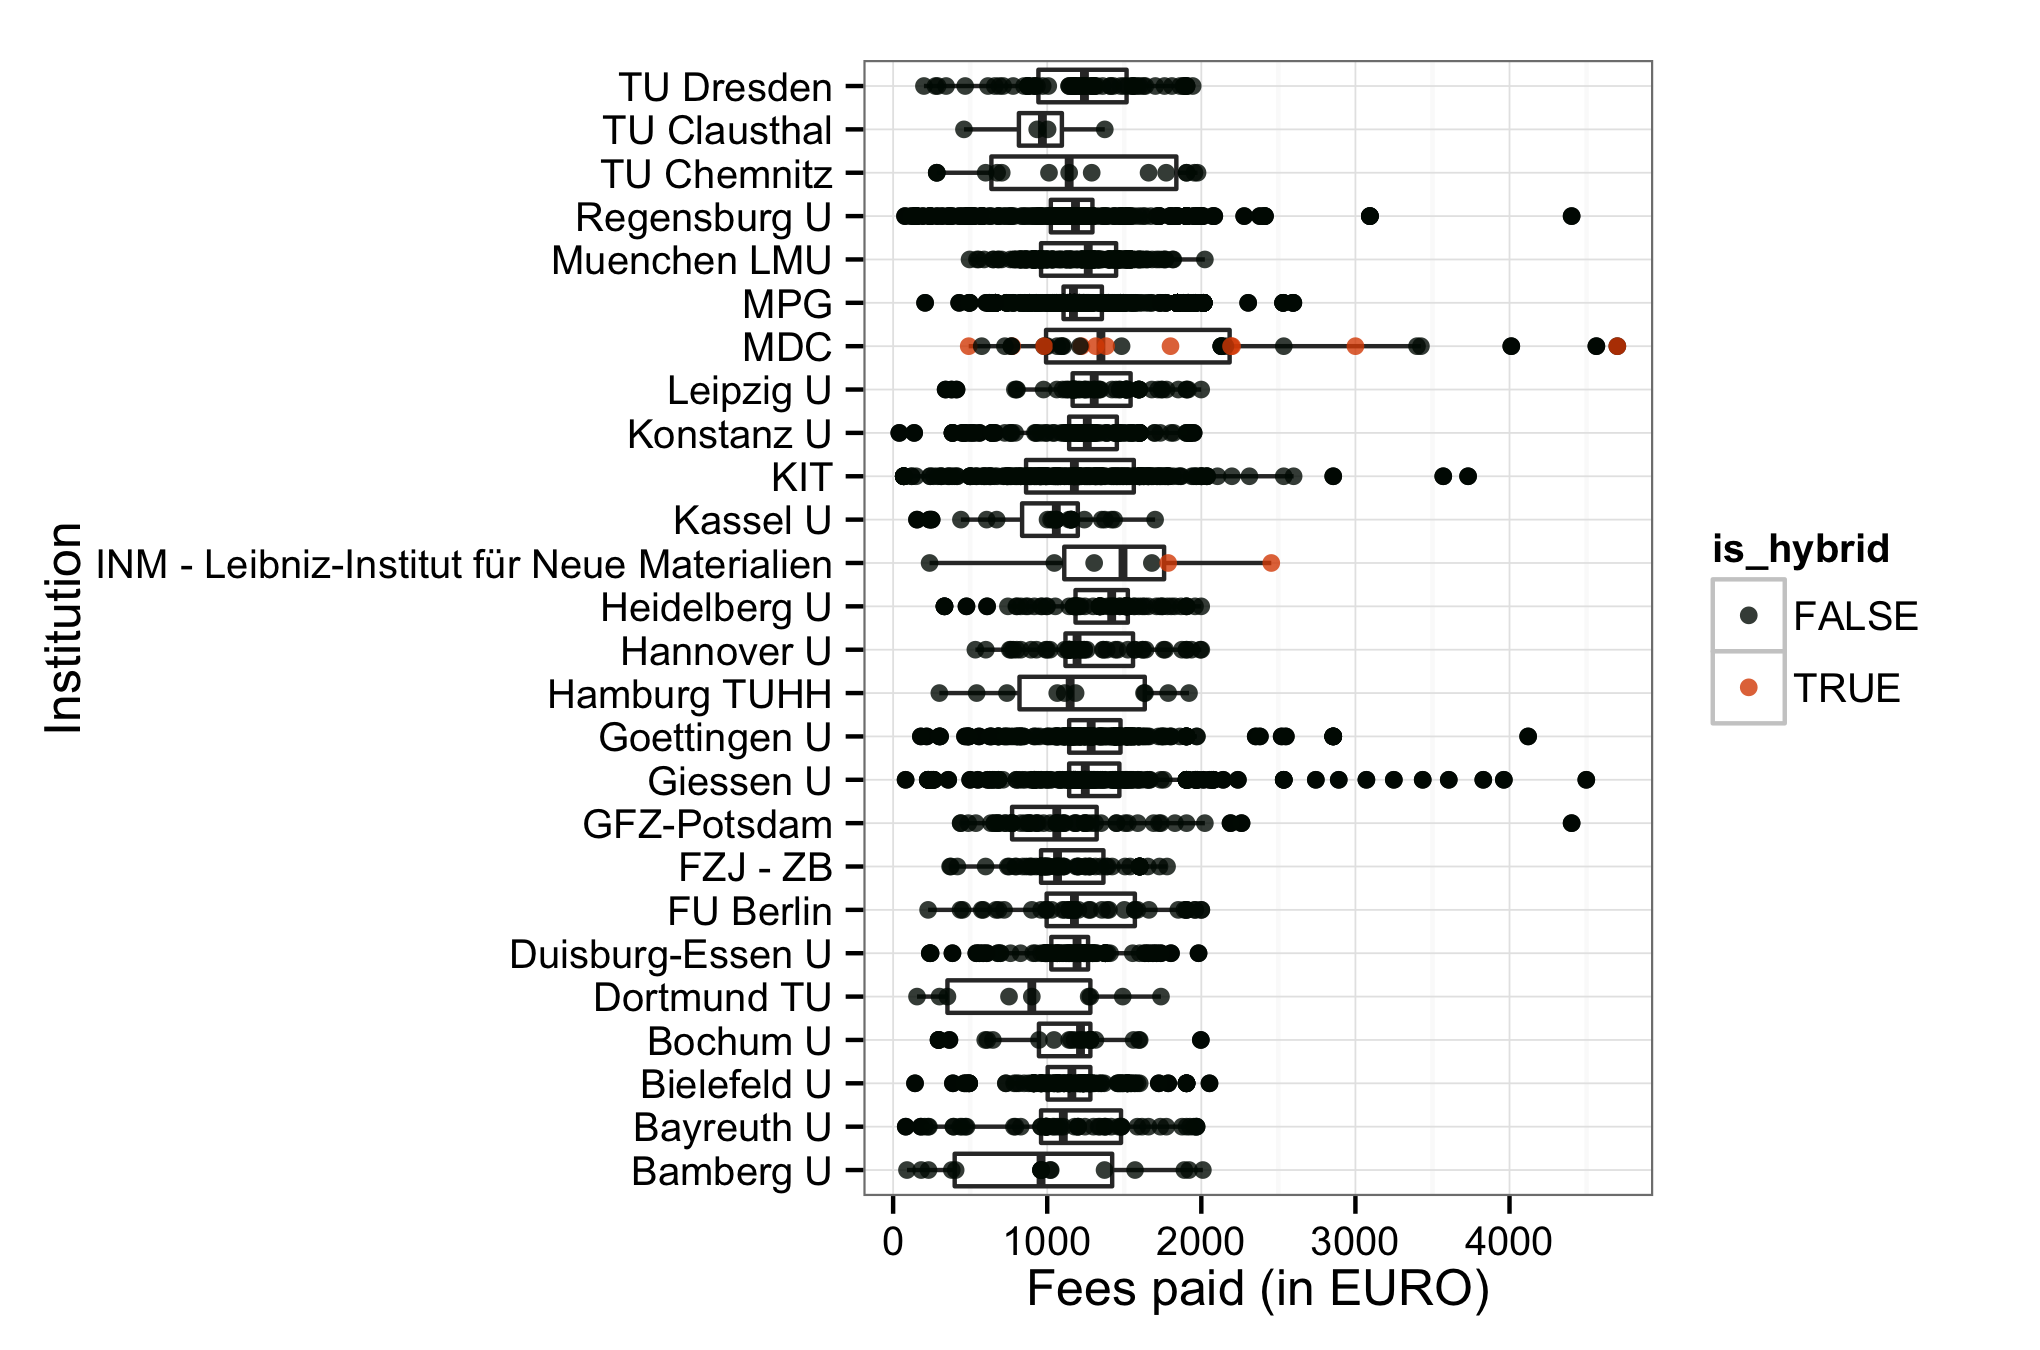
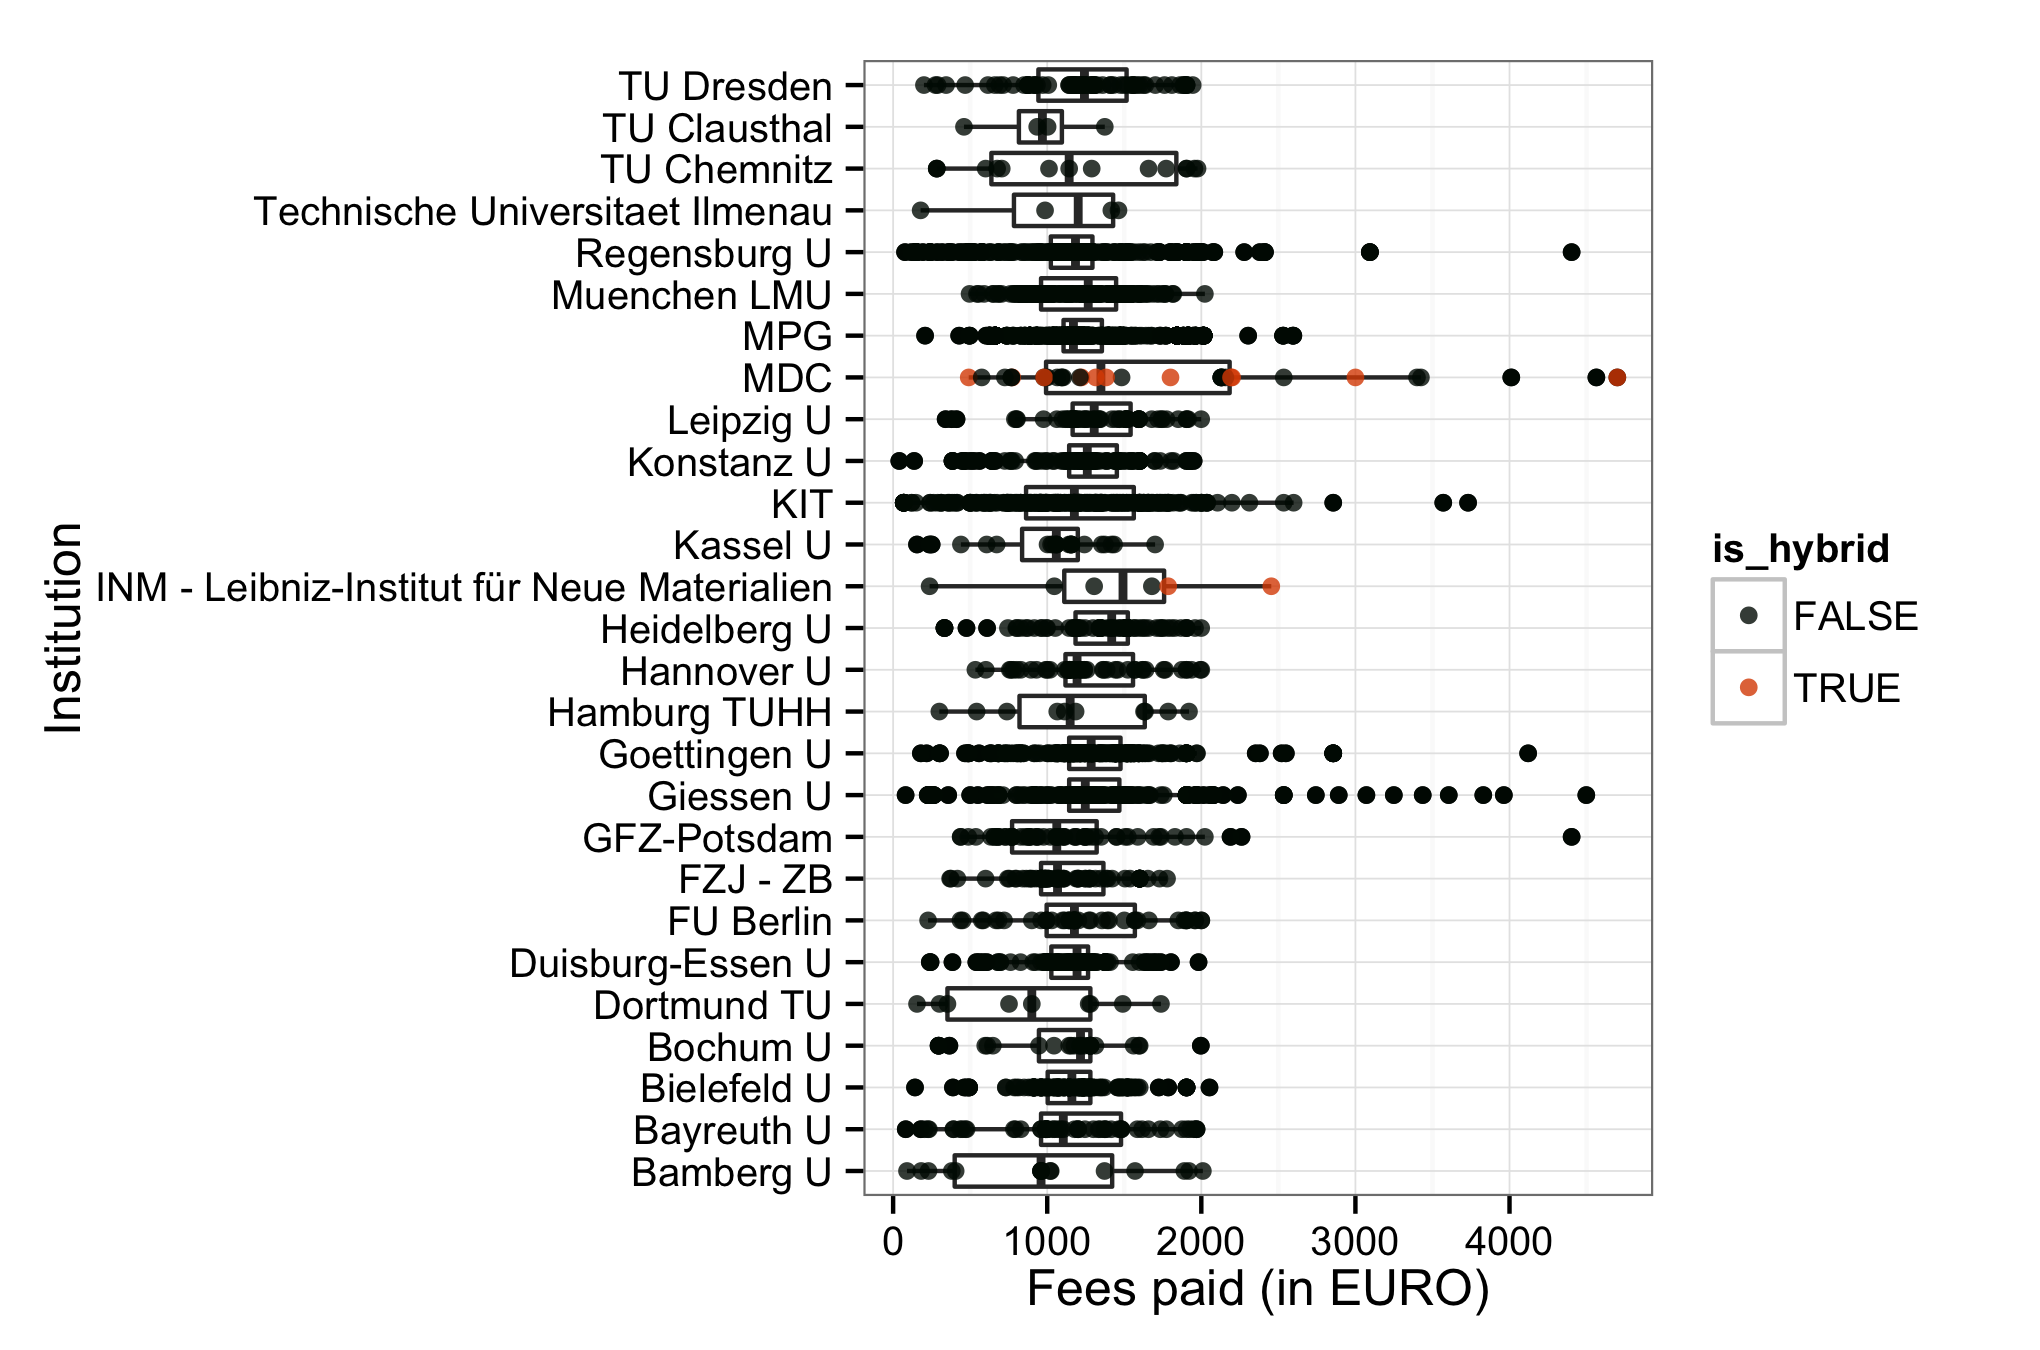
add tu ilmenau 15 #50

Changed region(s): [[0.0309, 0.0622, 0.8029, 0.8711], [0.7412, 0.1556, 0.8029, 0.2178]]

diff --git a/README.md b/README.md
@@ -28,6 +28,7 @@ So far, the following German universities have agreed to share information on pa
 - [Technische Universität Chemnitz](https://www.tu-chemnitz.de/ub/publizieren/openaccess/publikationsfonds.html)
 - [Technische Universität Dortmund](http://www.ub.tu-dortmund.de/open-access/index.html)
 - [Technische Universität Dresden](http://www.slub-dresden.de/service/schreiben-publizieren/open-access-service/publikationsfonds/)
+- [Technische Universität Ilmenau](https://www.tu-ilmenau.de/ub/service/open-access/oa-publikationsfonds/)
 - [University of Bamberg](http://www.uni-bamberg.de/en/ub/publishing/open-access-publishing/open-access-funds/)
 - [University of Duisburg-Essen](https://www.uni-due.de/ub/open_access.shtml)
 - [University of Göttingen](http://www.sub.uni-goettingen.de/en/electronic-publishing/open-access/open-access-publication-funding/)
@@ -57,13 +58,13 @@ ation/library)
 
 Information on both open access journal articles and open access publication of articles in toll-access journals ("hybrid") are provided.
 
-In total,  4 309 121€ for  3 486 articles were paid by the participating unviversities. Average  fee is 1 236.1€ and the median 1 201€.
+In total,  4 313 164€ for  3 490 articles were paid by the participating unviversities. Average  fee is 1 235.9€ and the median 1 201€.
 
 ### Open Access Journals
 
 
 
-At the moment, the dataset releases information on 3 473 articles in open access journals which charge publication fees. Total expenditure amounts to  4 284 827€. Average  fee is 1 233.8€ and the median 1 200€.
+At the moment, the dataset releases information on 3 477 articles in open access journals which charge publication fees. Total expenditure amounts to  4 288 870€. Average  fee is 1 233.5€ and the median 1 200€.
 
 View dataset on [GitHub](https://github.com/OpenAPC/openapc-de/blob/master/data/apc_de.csv).
 
@@ -93,6 +94,7 @@ View dataset on [GitHub](https://github.com/OpenAPC/openapc-de/blob/master/data/
 |MPG                                         |      992|           1231441|          1241|   1170|
 |Muenchen LMU                                |      314|            382455|          1218|   1266|
 |Regensburg U                                |      280|            331718|          1185|   1183|
+|Technische Universitaet Ilmenau             |        4|              4043|          1011|   1201|
 |TU Chemnitz                                 |       15|             17441|          1163|   1142|
 |TU Clausthal                                |        4|              3771|           943|    969|
 |TU Dresden                                  |       78|             96046|          1231|   1242|
@@ -189,7 +191,7 @@ For data enrichment, sample visualisations and explorations we build on the work
 
 ## Contributors
 
-Jochen Apel, Hans-Georg Becker, Roland Bertelmann, Daniel Beucke, Ute Blumtritt, Dorothea Busjahn, Gernot Deinzer, Andrea Dorner,  Clemens Engelhardt, Dominik Hell, Ulrich Herb, Inken Feldsien-Sudhaus, Fabian Franke, Claudia Frick, Kai Karin Geschuhn, Gerrit Kuehle, Doris Jaeger, Stephanie Kroiss, Kathrin Lucht-Roussel, Frank Lützenkirchen, Anja Oberländer, Vitali Peil, Dirk Pieper, Tobias Pohlmann, Michael Schlachter,  Florian Ruckelshausen, Birgit Schlegel, Adriana Sikora, Marco Tullney, Astrid Vieler, Sabine Witt, Najko Jahn
+Jochen Apel, Hans-Georg Becker, Roland Bertelmann, Daniel Beucke, Peter Blume, Ute Blumtritt, Dorothea Busjahn, Gernot Deinzer, Andrea Dorner,  Clemens Engelhardt, Dominik Hell, Ulrich Herb, Inken Feldsien-Sudhaus, Fabian Franke, Claudia Frick, Kai Karin Geschuhn, Gerrit Kuehle, Doris Jaeger, Stephanie Kroiss, Kathrin Lucht-Roussel, Frank Lützenkirchen, Anja Oberländer, Vitali Peil, Dirk Pieper, Tobias Pohlmann, Michael Schlachter,  Florian Ruckelshausen, Birgit Schlegel, Adriana Sikora, Marco Tullney, Astrid Vieler, Sabine Witt, Najko Jahn
 
 ## Contact
 
